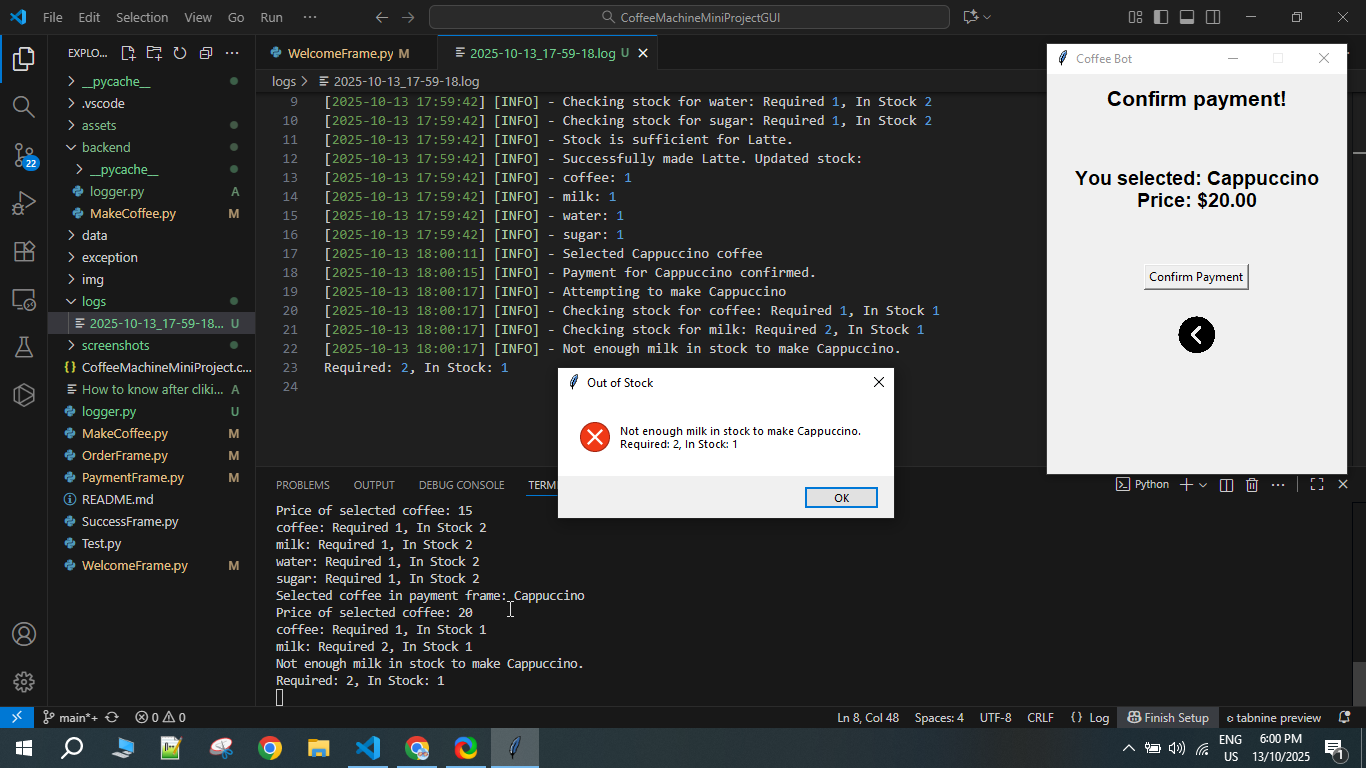
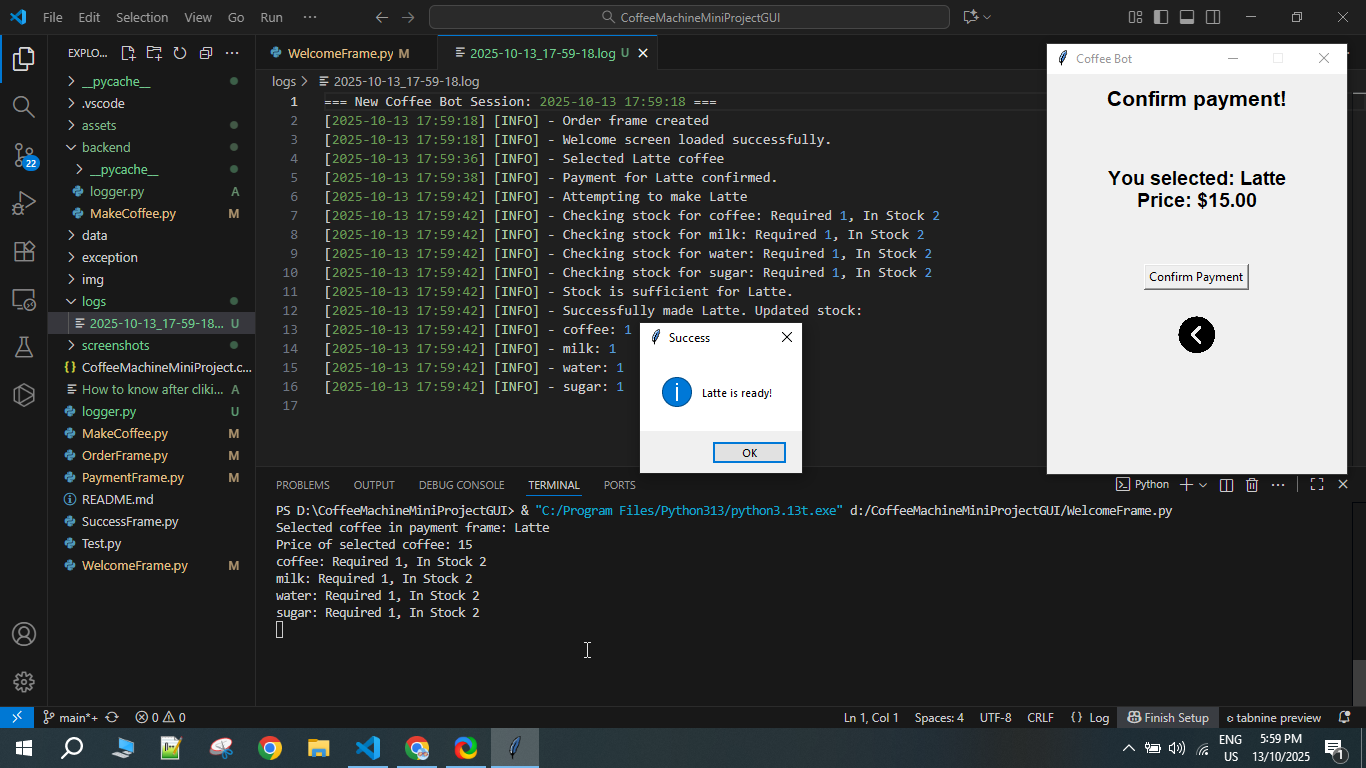
Add delay screen for brewing coffee

diff --git a/PaymentFrame.py b/PaymentFrame.py
@@ -24,9 +24,24 @@ def build_payment_frame(parent, go_back, selected_coffee):
     def on_confirm():
         try:
             make_coffee(selected_coffee)
-            messagebox.showinfo("Success", f"{selected_coffee} is ready!")        
-            payment_frame.pack_forget()
-            show_success_frame(parent, go_back, price)
+             # 1. Show the “brewing” UI
+            brewing = tk.Toplevel(parent)
+            brewing.title("Brewing Coffee")
+            brewing.geometry("200x100")
+            
+            label = tk.Label(brewing, text="Brewing your coffee...\nPlease wait :)")
+            label.pack(pady=20)
+
+            # 2. Define what happens after brewing
+            def finish_brewing():
+                brewing.destroy()  # close the brewing window
+                messagebox.showinfo("Success", f"{selected_coffee} is ready!")        
+                payment_frame.pack_forget()
+                show_success_frame(parent, go_back, price)
+
+            # 3. Schedule finish_brewing in 5 seconds (5000 ms)
+            payment_frame.after(5000, finish_brewing)
+            
         except OutOfStockError as e:
             logger(f"Out of stock for {selected_coffee}.")
             messagebox.showerror("Out of Stock", str(e))
